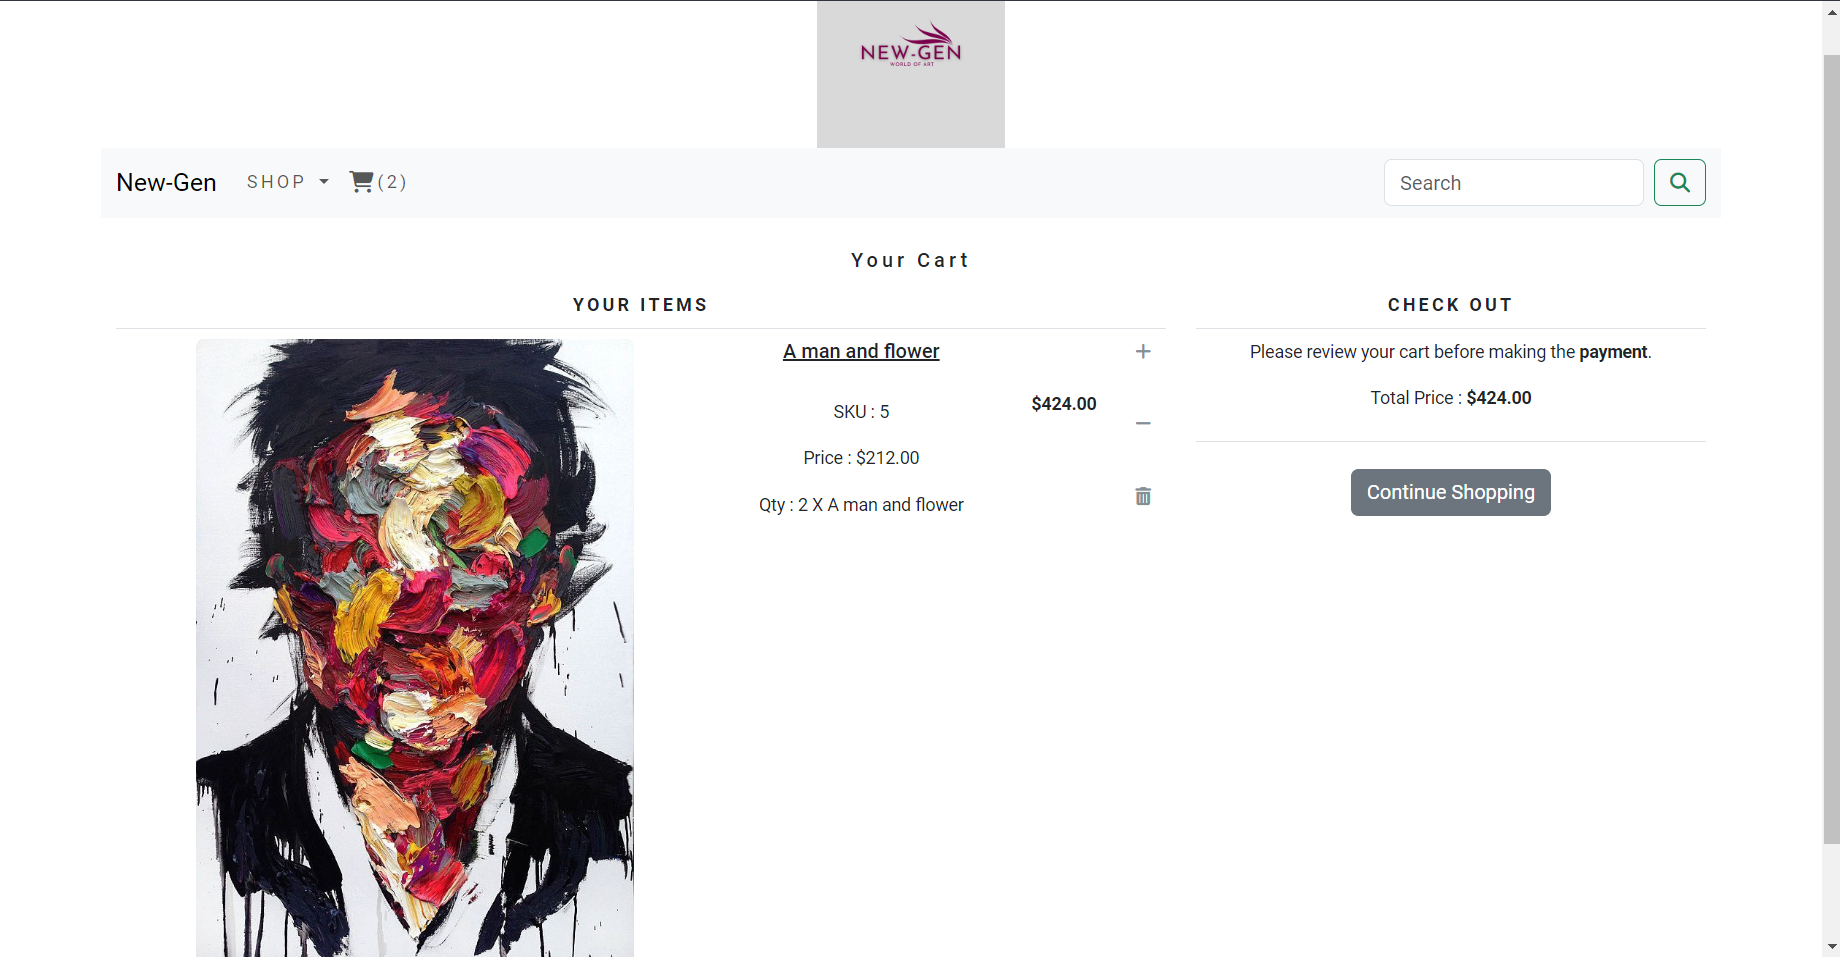
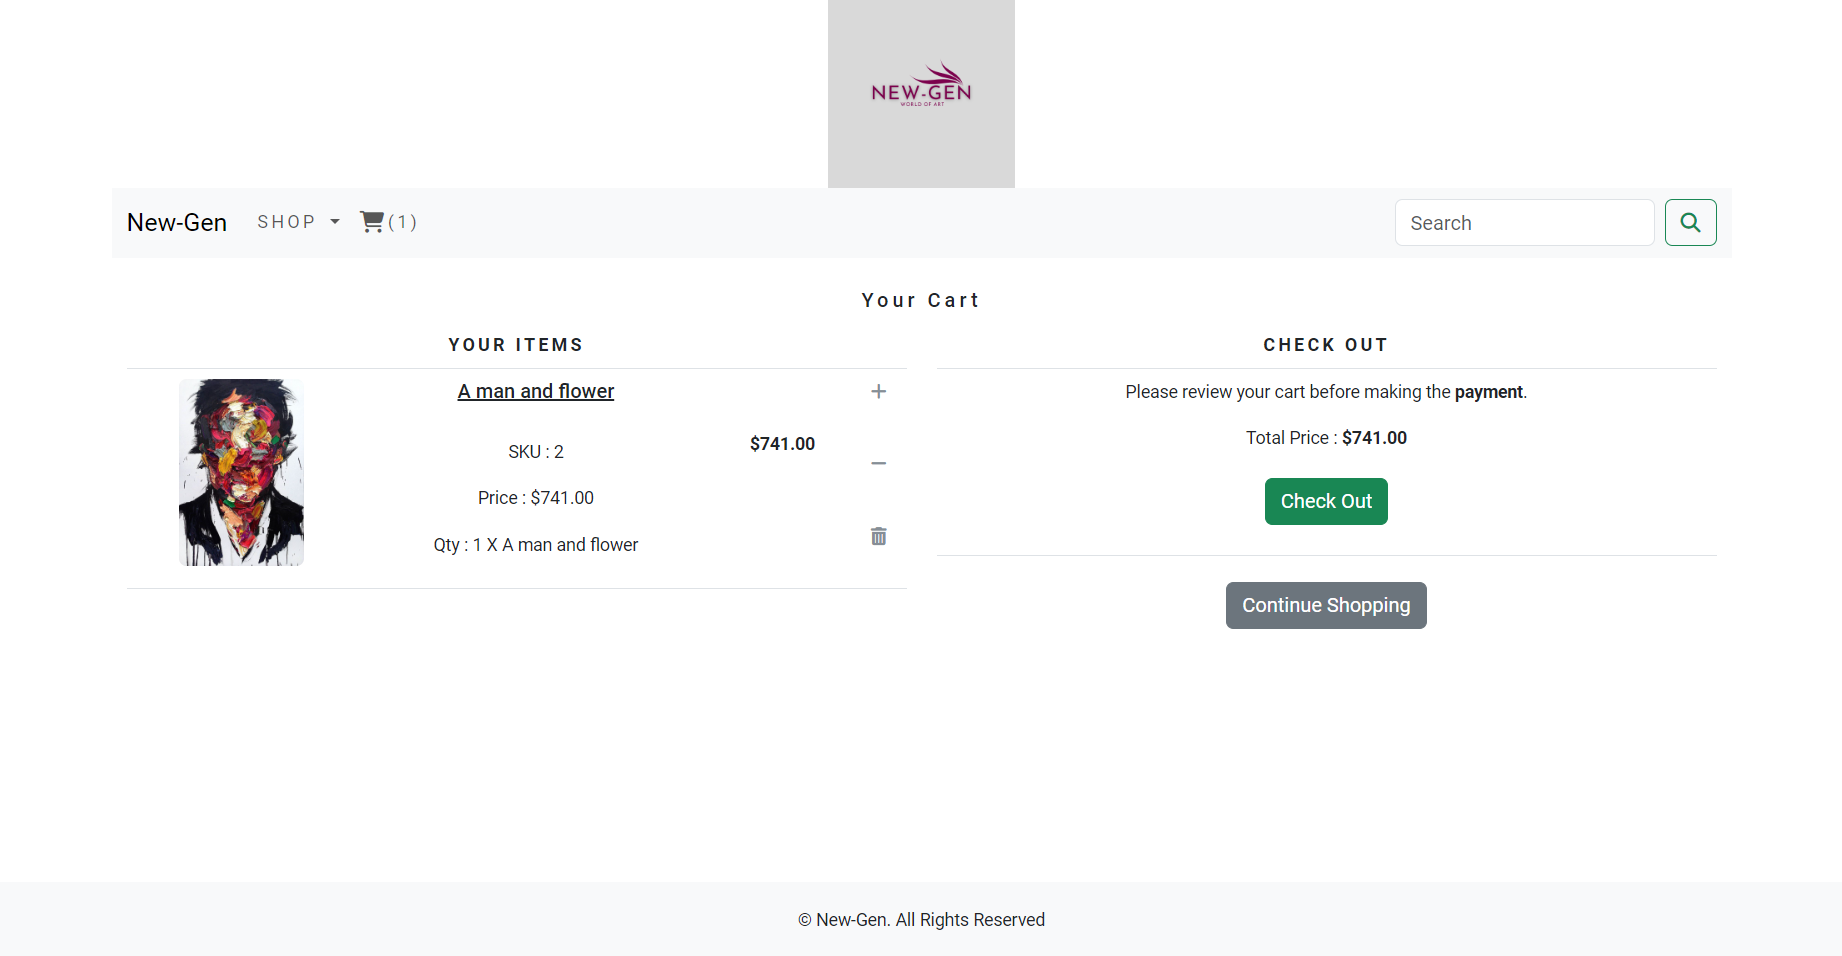
Fixed a few bugs, and added a screenshot

diff --git a/templates/cart.html b/templates/cart.html
@@ -31,7 +31,7 @@
                 </h1>
             </div>
             <div class="row mx-auto">
-                <div class="col-12 col-sm-12 col-md-12 col-lg-8 text-center">
+                <div class="col-12 col-sm-12 col-md-12 col-lg-6 text-center">
                     <table class="table my-table">
                         <thead class="my-thead">
                         <tr>
@@ -44,8 +44,8 @@
                         {% for cart_item in cart_items %}
                             <tr>
                                 <td>
-                                    <a href="cart_item.product.get_absolute_url">
-                                        <img src="{{cart_item.product.image.url}}" alt="{{cart_item.product.name}}" class="float-left rounded custom_img" width="350" height="500">
+                                    <a href="{% url 'cart:cart_detail' %}">
+                                        <img src="{{cart_item.product.image.url}}" alt="{{cart_item.product.name}}" class="float-left rounded custom_img" width="100" height="150">
                                     </a>
                                 </td>
                                 <td class="text-left">
@@ -100,7 +100,7 @@
                         </tbody>
                     </table>
                 </div>
-                <div class="col-12 col-sm-12 col-md-12 col-lg-4 text-center">
+                <div class="col-12 col-sm-12 col-md-12 col-lg-6 text-center">
                     <table class="table my-table">
                         <thead class="thead my-thead">
                             <tr>
@@ -115,6 +115,11 @@
                                     </p>
                                     <p>
                                         Total Price : <strong>${{total}}</strong>
+                                    </p>
+                                    <p class="mx-auto">
+                                        <a href="{% url 'shopapp:allProdCat' %}" class="btn btn-secondary btn-block custom_btn btn btn-success">
+                                            Check Out
+                                        </a>
                                     </p>
                                 </td>
                             </tr>

diff --git a/static/css/custom.css b/static/css/custom.css
@@ -11,14 +11,18 @@ body {
     text-transform : uppercase;
 }
 
-.my-footer {
+.footer {
+    position: fixed;
+    left: 0;
+    bottom: 0;
+    width: 100%;
     background-color : #f8f9fa;
     height : 60px
 }
 
 /*** Footer ***/
 
-.my-footer p {
+.my-footer {
     padding-top : 20px;
     font-size : 14px;
 }

diff --git a/templates/footer.html b/templates/footer.html
@@ -1,4 +1,4 @@
 {% load static %}
- <footer class="footer navbar-fixed-bottom my-footer">
-   <p class="text-center">&copy; New-Gen. All Rights Reserved</p>
- </footer>
+ <div class="footer navbar-fixed-bottom">
+   <p class="text-center my-footer">&copy; New-Gen. All Rights Reserved</p>
+ </div>

diff --git a/templates/category.html b/templates/category.html
@@ -11,9 +11,9 @@
 
 {% block title %}
     {% if category %}
-        {{category.name}} -- Royals
+        {{category.name}} -- New-Gen
     {% else %}
-        Check out our new collections -- Royals
+        Check out our new collections -- New-Gen
     {% endif %}
 {% endblock %}
 

diff --git a/templates/product.html b/templates/product.html
@@ -7,7 +7,7 @@
 
 {% block title %}
     {% if category %}
-        {{product.name}} -- Royals
+        {{product.name}} -- New-Gen
     {% endif %}
 {% endblock %}
 
